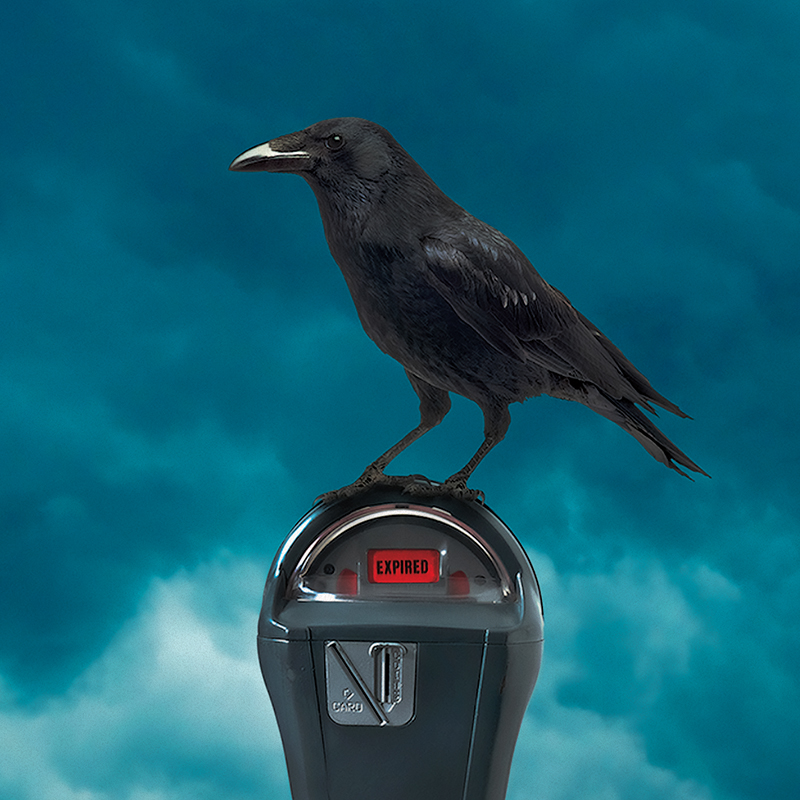
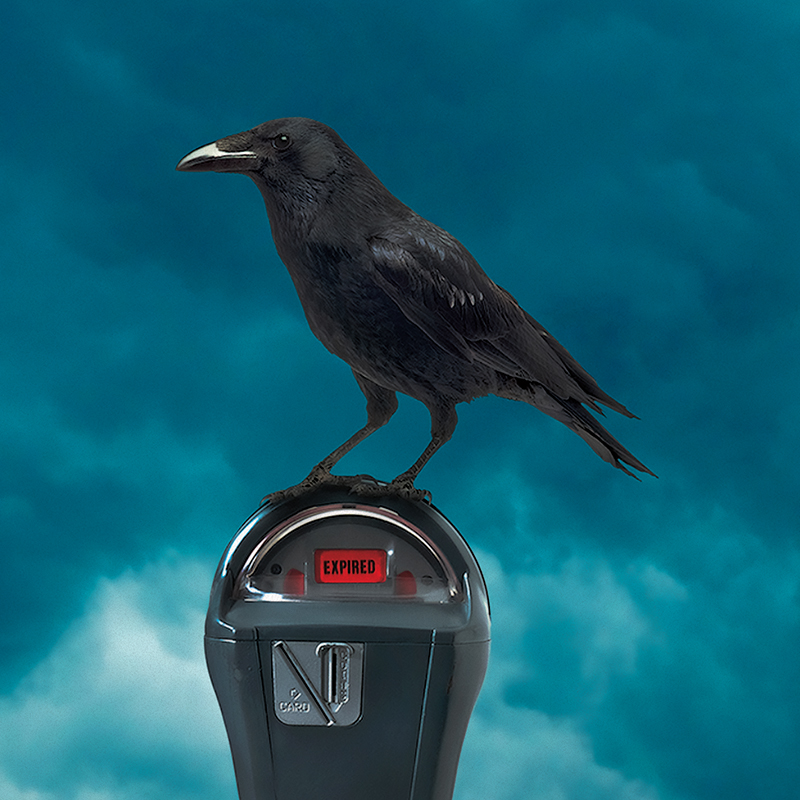
Adds fading effect to carousel at 800px. Recrops crow image

Changed region(s): [[0.0, 0.125, 0.9375, 1.0], [0.6875, 0.5625, 0.75, 0.6562]]

diff --git a/css/main_styles.css b/css/main_styles.css
@@ -158,6 +158,70 @@
     #mod01 h2 {
         display: none;
     }
+
+    #carousel {
+        position: relative;
+        background-color: white;
+    }
+    #slide-1 {
+        display: block;
+        width: 100%;
+        /* height: auto; */
+    }
+    #slide-2, #slide-3, #slide-4 {
+        position: absolute;
+        width: 100%;
+        /* height: 100%; */
+        top: 0;
+        bottom: 0;
+        left: 0;
+        right: 0;
+    }
+    #slide-1 {
+        animation: fade-1 20s infinite;
+    }
+    #slide-2 {
+        animation: fade-2 20s infinite;
+    }
+    #slide-3 {
+        animation: fade-3 20s infinite;
+    }
+    #slide-4 {
+        animation: fade-4 20s infinite;
+    }
+
+    @keyframes fade-1 {
+        0% {opacity: 1;}
+        25% {opacity: 0;}
+        50% {opacity: 0;}
+        75% {opacity: 0;}
+        100% {opacity: 1;}
+    }
+    @keyframes fade-2 {
+        0% {opacity: 0;}
+        25% {opacity: 1;}
+        50% {opacity: 0;}
+        75% {opacity: 0;}
+        100% {opacity: 0;}
+    }
+    @keyframes fade-3 {
+        0% {opacity: 0;}
+        25% {opacity: 0;}
+        50% {opacity: 1;}
+        75% {opacity: 0;}
+        100% {opacity: 0;}
+    }
+    @keyframes fade-4 {
+        0% {opacity: 0;}
+        25% {opacity: 0;}
+        50% {opacity: 0;}
+        75% {opacity: 1;}
+        100% {opacity: 0;}
+    }
+
+
+
+
     #slides {
         outline: 2rem solid white;
         box-shadow: inset 0 0 60px rgba(0, 0, 0, .25);
